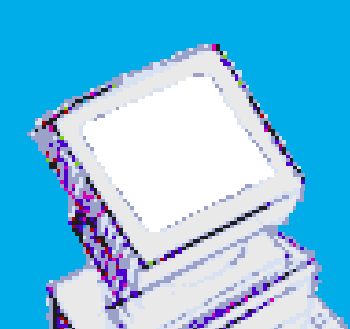
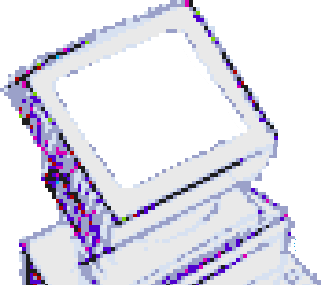
modified:   index.html 	modified:   static/images/monitor.png 	modified:   static/style.css

diff --git a/index.html b/index.html
@@ -10,7 +10,7 @@
 	</head>
 	<body>
 		<img class="monitor" src="static/images/monitor.png"/>
-		<p class="text">
+		<div class="text">
 			<span style="color: #d900b1">
 				Bitcoin (BTC):<br>
 				bc1qte352gum9mxes2hf6qx999s9c8cvxav9usald9<br>
@@ -50,13 +50,13 @@
 			<span style="color: #4e00ce">
 				Ethereum Classic (ETC):<br>
 				0xE52E46617968FC8aC40E77e4aBacefE7391f0934
-			</span>
-		</p>
-		<a href="https://www.youtube.com/c/tmuq?sub_confirmation=1" target="_blank">
-			<img style="width: 42px; height: 32px;" src="static/images/youtube.png"/>
-		</a>&nbsp;
-		<a href="https://github.com/tmuq/support" target="_blank">
-			<img style="width: 32px; height: 32px;" src="static/images/github.png"/>
-		</a>
+			</span><br>
+			<a href="https://www.youtube.com/c/tmuq?sub_confirmation=1" target="_blank">
+			<img style="width: 21px; height: 16px;" src="static/images/youtube.png"/>
+			</a>&nbsp;
+			<a href="https://github.com/tmuq/support" target="_blank">
+				<img style="width: 16px; height: 16px;" src="static/images/github.png"/>
+			</a>
+		</div>
 	</body>
 </html>

diff --git a/static/style.css b/static/style.css
@@ -12,25 +12,12 @@ html {
 }
 
 .monitor {
-	width: 840px;
-	height: 840px;
-	left: 50%;
-	bottom: -0px;
-	position: absolute;
-	transform: translateX(-50%);
-	-moz-transform: translateX(-50%);
-    -webkit-transform: translateX(-50%);
+	display: block;
+	margin: auto;
 }
 
 .text {
 	font-size: 14px;
 	font-family: 'pixeboy';
-	text-align: left;
-	display: inline-block;
-	top: 50%;
-	left: 50%;
-	position: absolute;
-	transform: translateX(-50%) translateY(-50%) rotate(-30.5deg);
-	-moz-transform: translateX(-50%) translateY(-50%) rotate(-30.5deg);
-    -webkit-transform: translateX(-50%) translateY(-50%) rotate(-30.5deg);
+	text-align: center;
 }
